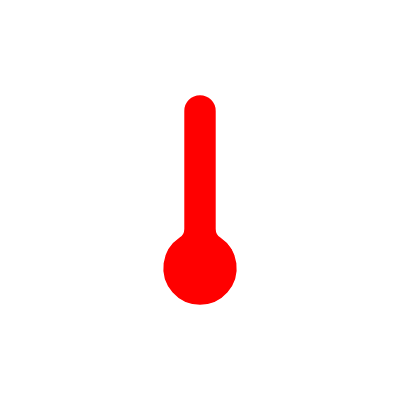
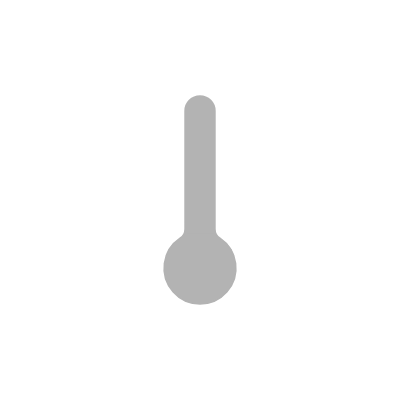
Changed thermometers to be filled with gray, small tweaks to Normals.

Changed region(s): [[0.39, 0.24, 0.6, 0.78]]

diff --git a/screens/LocationScreen.js b/screens/LocationScreen.js
@@ -428,7 +428,18 @@ export default class CurrentLocation extends React.Component {
       if (newEntry.title.startsWith("Normal ")) {
         newEntry.heading = normalsHeading;
         newEntry.title = newEntry.title.substr(7);
-        normals.push(newEntry);
+        let isMean = false;
+        if (newEntry.title == "Mean") {
+          newEntry.title = "Average";
+          newEntry.fontWeight = 'normal';
+          isMean = true;
+        }
+        // put mean before min if we already have a normals entry
+        if (isMean && normals.length == 2) {
+          normals.splice(1, 0, newEntry);
+        } else {
+          normals.push(newEntry);
+        }
         normalsHeading = null;
       } else if (newEntry.title.startsWith("Extreme ")) {
         newEntry.heading = extremesHeading;
@@ -916,7 +927,7 @@ function ForecastItem(props) {
     summmaryView = (<Text style={{ fontSize: 13, flex: 1, color: settings.dark ? 'white' : 'black' }}>{summary}</Text>);
 
   let fontColor = isNight ? '#777777' : (settings.dark ? 'white' : 'black');
-  let fontWeight = isNight ? 'normal' : 'bold';
+  let fontWeight = props.fontWeight || isNight ? 'normal' : 'bold';
   // let fontWeight = 'normal';
   let displayTemp = temperature;
   if (displayTemp && displayTemp.length && rounded) {
